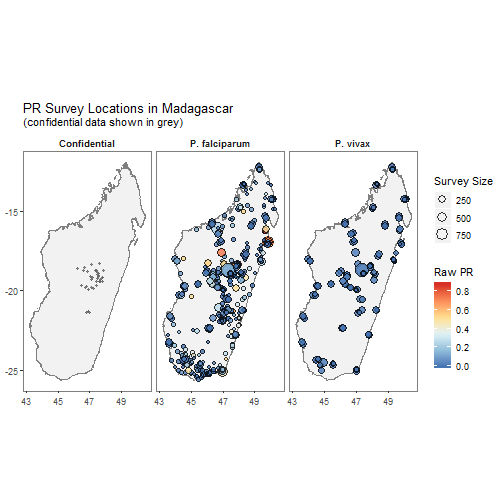
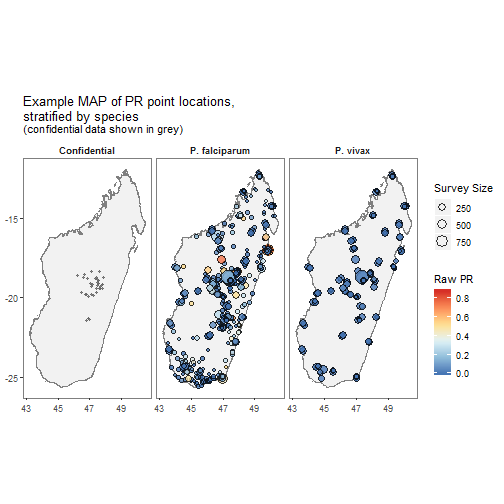
updates from knit README.Rmd

diff --git a/README.md b/README.md
@@ -156,7 +156,7 @@ MDG_pr_data <- getPR(country = "Madagascar", species = "both")
 autoplot(MDG_pr_data)
 ```
 
-![plot of chunk unnamed-chunk-12](man/figures/unnamed-chunk-12-1.png)
+![plot of chunk unnamed-chunk-11](man/figures/unnamed-chunk-11-1.png)
 
 N.B. Facet-wrapped option is also available for species stratification. 
 
@@ -166,7 +166,7 @@ autoplot(MDG_pr_data,
          map_title = "Example MAP of PR point locations,\nstratified by species")
 ```
 
-![plot of chunk unnamed-chunk-13](man/figures/unnamed-chunk-13-1.png)
+![plot of chunk unnamed-chunk-12](man/figures/unnamed-chunk-12-1.png)
 
 ### Vector Survey Points
 `getVecOcc()` downloads all publicly available Vector survey points for a specified country and  and returns this as a dataframe with the following format: 
@@ -212,7 +212,7 @@ MMR_vec_data <- getVecOcc(country = "Myanmar")
 autoplot.vector.points(MMR_vec_data)
 ```
 
-![plot of chunk unnamed-chunk-16](man/figures/unnamed-chunk-16-1.png)
+![plot of chunk unnamed-chunk-15](man/figures/unnamed-chunk-15-1.png)
 
 N.B. Facet-wrapped option is also available for species stratification. 
 
@@ -221,7 +221,7 @@ autoplot(MMR_vec_data,
          facet = TRUE)
 ```
 
-![plot of chunk unnamed-chunk-17](man/figures/unnamed-chunk-17-1.png)
+![plot of chunk unnamed-chunk-16](man/figures/unnamed-chunk-16-1.png)
 
 ### Shapefiles
 `getShp()` downloads a shapefile for a specified country (or countries) and returns this as either a spatialPolygon or data.frame object.
@@ -229,11 +229,6 @@ autoplot(MMR_vec_data,
 
 ```r
 MDG_shp <- getShp(ISO = "MDG", admin_level = c("admin0", "admin1"))
-```
-
-```
-## Warning in if (admin_level == "all") {: the condition has length > 1 and
-## only the first element will be used
 ```
 
 ```
@@ -293,7 +288,7 @@ MDG_shp <- as.MAPshp(MDG_shp)
 autoplot(MDG_shp)
 ```
 
-![plot of chunk unnamed-chunk-20](man/figures/unnamed-chunk-20-1.png)
+![plot of chunk unnamed-chunk-19](man/figures/unnamed-chunk-19-1.png)
 
 N.B. Facet-wrapped option is also available for species stratification. 
 
@@ -304,7 +299,7 @@ autoplot(MDG_shp,
          map_title = "Example of facetted shapefiles.")
 ```
 
-![plot of chunk unnamed-chunk-21](man/figures/unnamed-chunk-21-1.png)
+![plot of chunk unnamed-chunk-20](man/figures/unnamed-chunk-20-1.png)
 
 ### Modelled Rasters 
 
@@ -326,7 +321,7 @@ MDG_shp_df <- as.MAPshp(MDG_shp)
 p <- autoplot(MDG_PfPR2_10_df, shp_df = MDG_shp_df)
 ```
 
-![plot of chunk unnamed-chunk-23](man/figures/unnamed-chunk-23-1.png)
+![plot of chunk unnamed-chunk-22](man/figures/unnamed-chunk-22-1.png)
 
 
 ### Combined visualisation 
@@ -350,7 +345,7 @@ scale_size_continuous(name = "Survey Size")+
  ggtitle("Raw PfPR Survey points\n + Modelled PfPR 2-10 in Madagascar in 2013")
 ```
 
-![plot of chunk unnamed-chunk-24](man/figures/unnamed-chunk-24-1.png)
+![plot of chunk unnamed-chunk-23](man/figures/unnamed-chunk-23-1.png)
 
 Similarly for vector survey data
 
@@ -371,7 +366,7 @@ geom_point(data = vec, aes(longitude, latitude, colour = species))+
  ggtitle("Vector Survey points\n + The predicted distribution of An. dirus complex")
 ```
 
-![plot of chunk unnamed-chunk-25](man/figures/unnamed-chunk-25-1.png)
+![plot of chunk unnamed-chunk-24](man/figures/unnamed-chunk-24-1.png)
 
 ## Basic Spatial utility tools 
 
